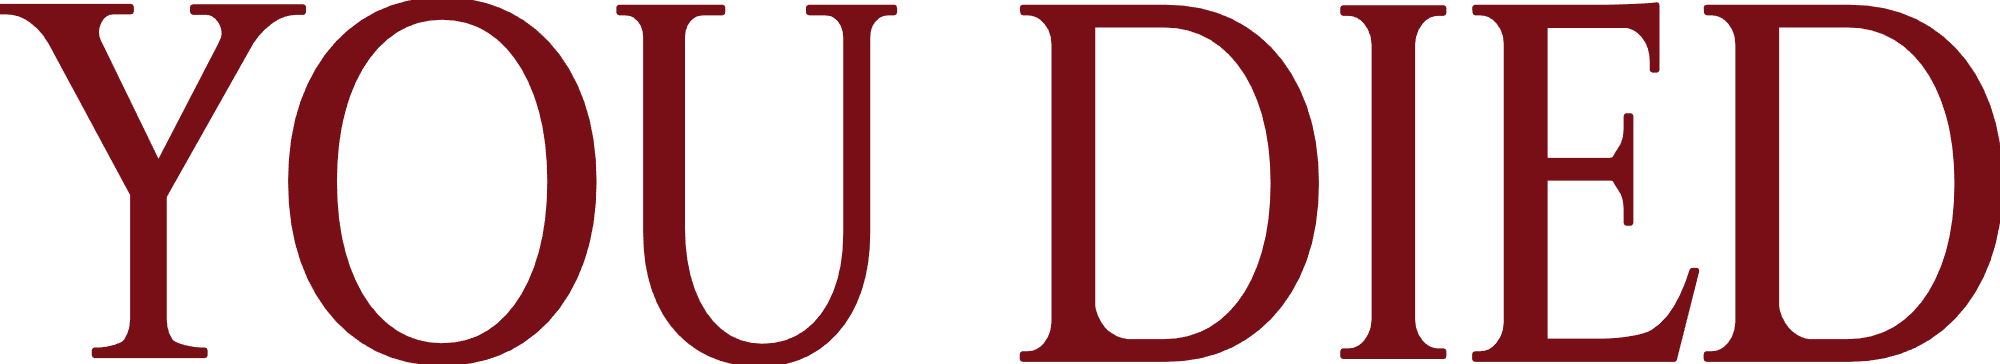
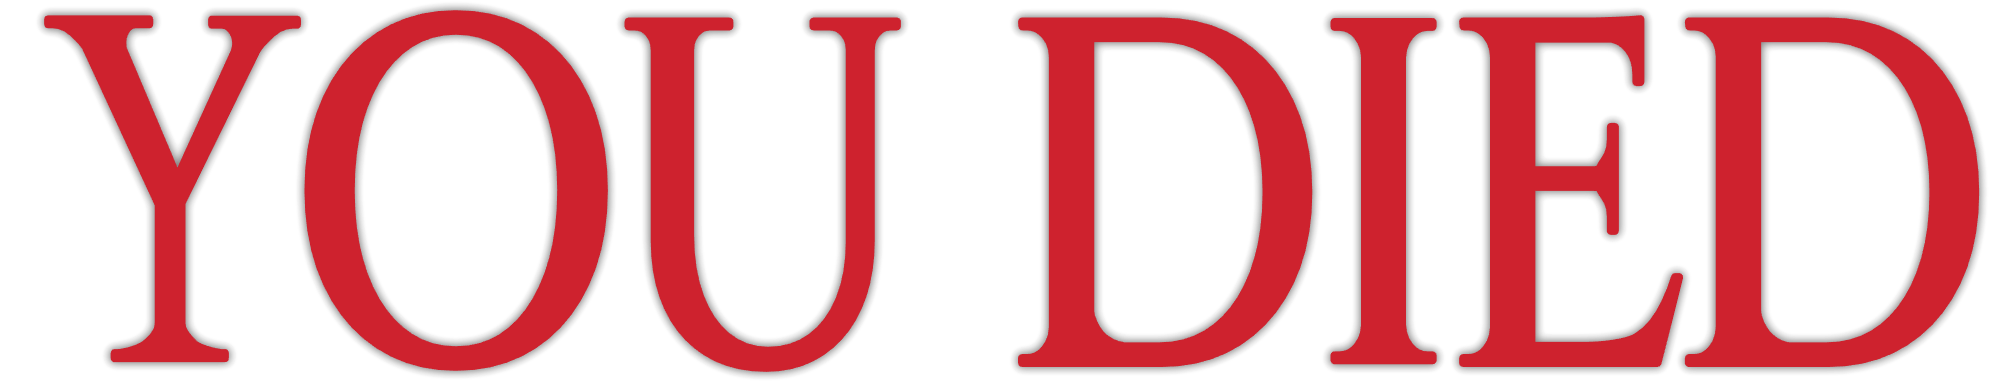
Version 1.0.0
Initial Public release
-Further Edits to png's
-Removing memory leak
-Adjusting timing further

diff --git a/README.md b/README.md
@@ -1,15 +1,47 @@
 # Souls-like_Death_Screen
 
 
+![Version](https://img.shields.io/badge/Version-1.0-informational.svg)
+![License](https://img.shields.io/badge/License-MIT-green)
+![Game Version](https://img.shields.io/badge/PZ_Game_Version-42.20_Stable-orange) 
+
+[![Platform](https://img.shields.io/badge/Steam-Storepage-blue?logo=steam)](https://store.steampowered.com/app/108600/Project_Zomboid/)
+[![Steam Workshop](https://img.shields.io/badge/Steam-Workshop_Page-purple?logo=steam)](-PLACEHOLDER-)
+[![Bug Reports](https://img.shields.io/badge/Github-Bug_Reports-red?logo=github)](-placeholder-)
 
 
-## Vision
-Replace the standard Project Zomboid death screen with one similar to that from Dark Souls.
+
+Replaces the regular death screen, music, and menu that plays when you die with one that is like the death screen from Dark Souls Remastered. 
+
+I have included an Audio-only version of the mod which only adds the Dark Souls you died sound effect, with none of the visual/menu changes I made.
 
 
+# Compatibility
+Project Zomboid Version: VERSION   42.20.X STABLE     
+Controller Support: YES   
+Multiplayer Support: UNTESTED   
+Mods (Including UI mods): YES   
+Language Support: ENGLISH
+
+# Dependencies and Installation
+
+No Dependencies
+
+## Install Option A - Steam Workshop
+1. Go to Steam Workshop Page
+2. Subscribe
+3. Enable in the in-game mod manager
+
+## Install Option B - From Source Code
+1. Clone Repo
+2. Move to the respective local mod folder for your installation for project zomboid. On Linux it is located in home/zomboid/mods, windows I am pretty sure is located in documents\zomboid\mods.
+3. Enable in the in-game mod manager
 
 
-
-## Font Choice for "YOU DIED"
+# Font Choice for "YOU DIED"
 
 I used a  Google Font called "Cinzel" for the base then heavily modified it using an svg editor. This seems to be the most widely recognised closest font and I will admit it required very little work to make it look like the font from Dark Souls. 
+
+# License
+
+MIT
